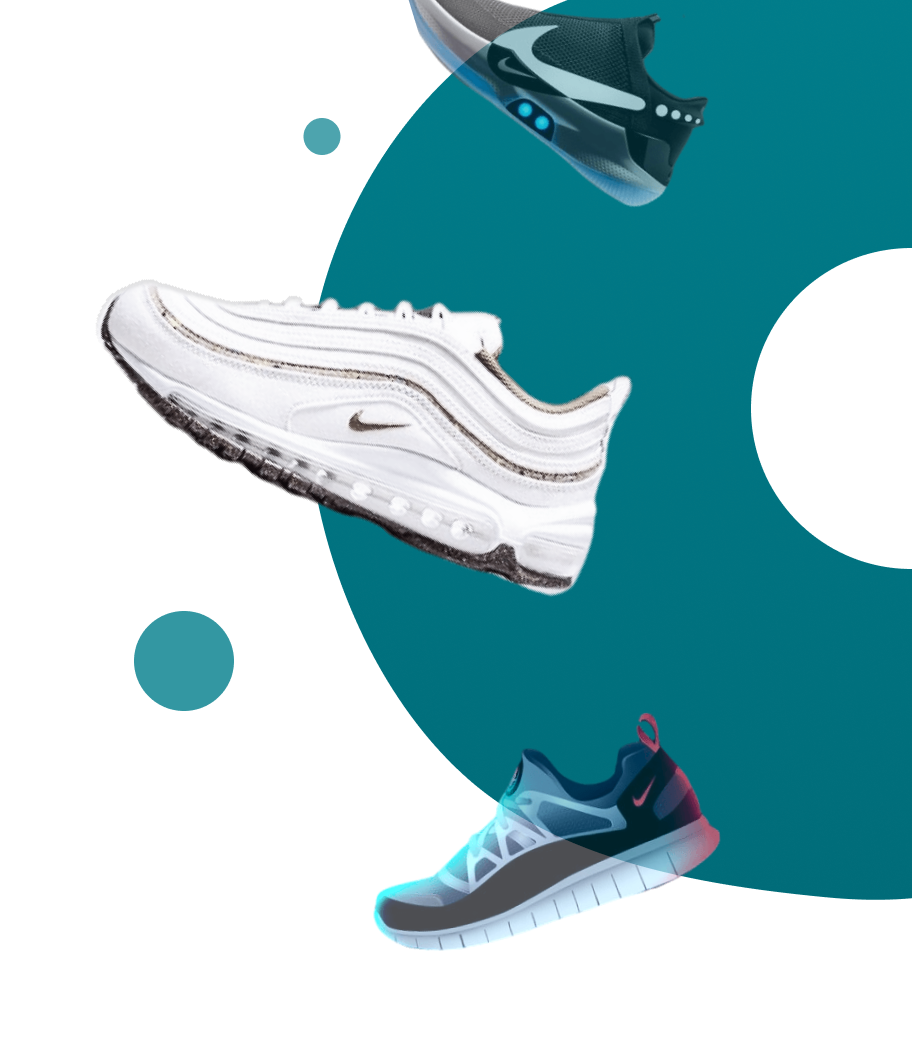
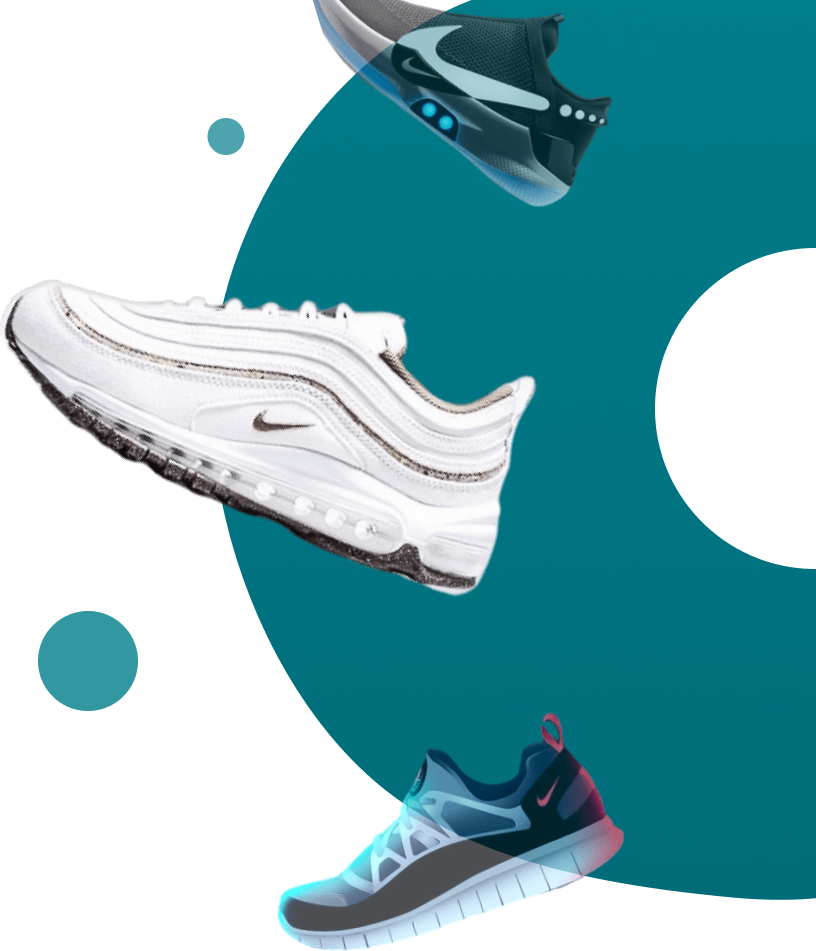
test

diff --git a/css/style.css b/css/style.css
@@ -20,7 +20,7 @@
 @font-face {
   font-family: 'Yu Gothic';
   src: url('../YuGothic.woff2') format('woff2'),
-      url('../YuGothic.woff') format('woff');
+    url('../YuGothic.woff') format('woff');
   font-weight: normal;
   font-style: normal;
   font-display: swap;
@@ -221,53 +221,59 @@ input[placeholder] {
 }
 
 .mainpage {
-  height: 992px;
+  min-height: 992px;
   background: url(../img/Component1.png);
   background-repeat: no-repeat;
-  background-position: right;
-  top: 0;
-  right: 0;
-  background-size: 950px;
+  background-position: right top;
+  background-size: 816px 951px;
+  padding-top: 223px;
 }
 
 .mainpage__text {
   width: 451px;
-  height: 230px;
-  margin-top: 223px;
 }
 
 .mainpage__text-shoes {
   font-family: Stencil;
   font-weight: 400;
   font-size: 64px;
+  margin-bottom: 16px;
 }
 
 .mainpage__text-collection {
   font-weight: 700;
   font-size: 40px;
-  line-height: 64px;
+  margin-bottom: 20px;
 }
 
 .mainpage__text-description {
   font-weight: 700;
   font-size: 20px;
   line-height: 32px;
+  width: 354px;
   color: #B3B3B3;
 }
 
-.mainpage__shop__link {
+.mainpage__shop-link {
+  background: #007D8B;
+  border-radius: 30px;
   display: flex;
-  background-image: url(../img/RectangleMainpage.png);
-  width: 194px;
-  height: 58px;
-  overflow: hidden;
   margin-top: 80px;
   font-size: 24px;
-  line-height: 38px;
   color: white;
   padding: 15px;
   align-items: center;
-  justify-content: space-between;
-  flex-direction: row-reverse;
 }
 
+.mainpage__shop-pointer {
+  width: 28px;
+  height: 23px;
+}
+
+.mainpage__shop-link-text {
+  margin-right: 16px;
+}
+
+.mainpage__text-collection--accent {
+  color: #007D8B;
+}

diff --git a/index.html b/index.html
@@ -43,13 +43,14 @@
     <div class="container">
       <div class="mainpage__text">
         <h1 class="mainpage__text-shoes">SPORTS SHOES</h1>
-        <p class="mainpage__text-collection">Men's collection</p>
-        <p class="mainpage__text-description">Find your true style with shoexpress<br>and explore the variety of
-          playful,<br>colourful designs!</p>
+        <p class="mainpage__text-collection"><span class="mainpage__text-collection--accent">Man's</span> collection</p>
+        <p class="mainpage__text-description">Find your true style with shoexpress and explore the variety of playful,
+          colourful designs!</p>
       </div>
-      <button class="mainpage__shop__link">
-        <img style= width: 16px; src="img/Pointer.png" alt="Pointer" class="mainpage__shop-pointer">
-        Shop Now </button>
+      <button class="mainpage__shop-link">
+        <span class="mainpage__shop-link-text">Shop Now</span>
+        <img src="img/Pointer.png" alt="Pointer" class="mainpage__shop-pointer">
+      </button>
     </div>
   </section>
 </body>
